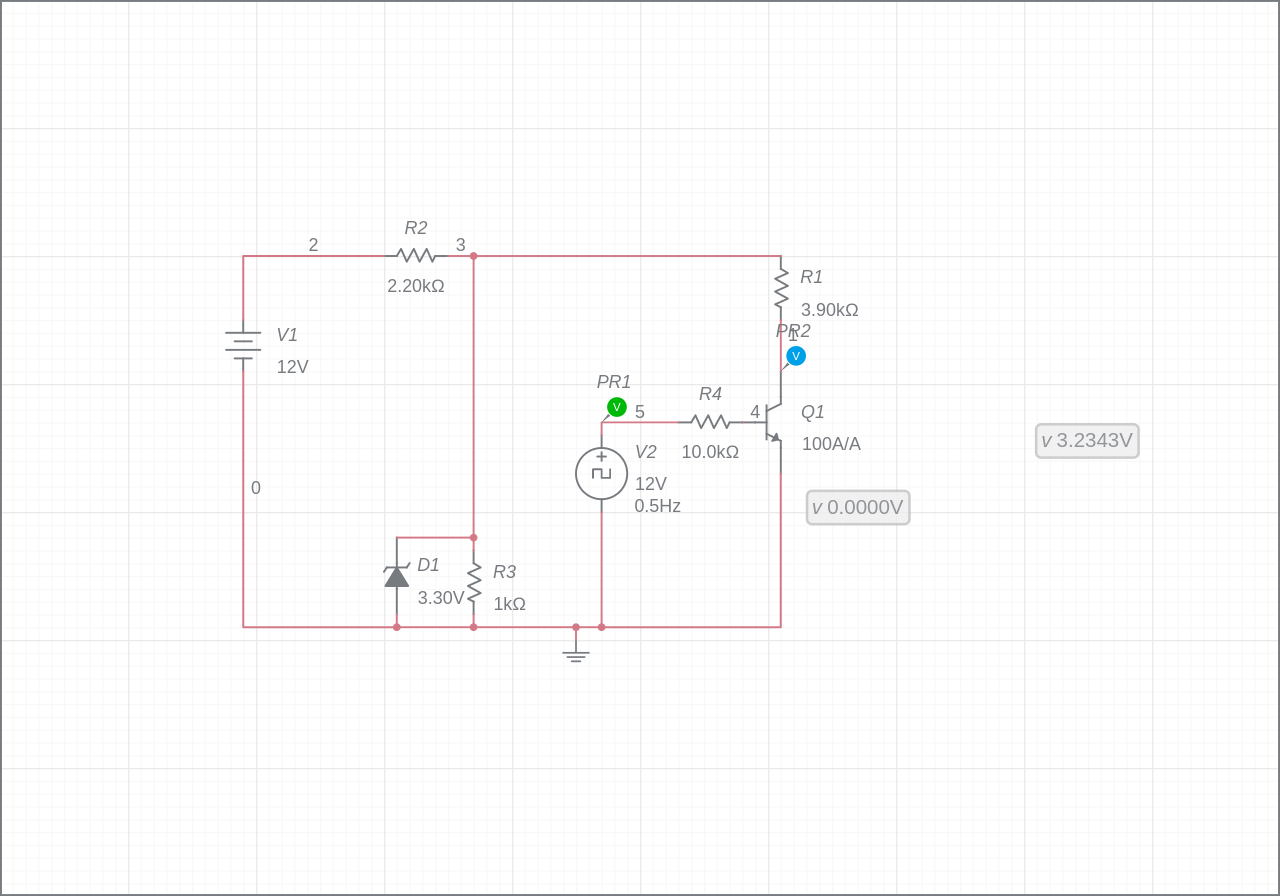
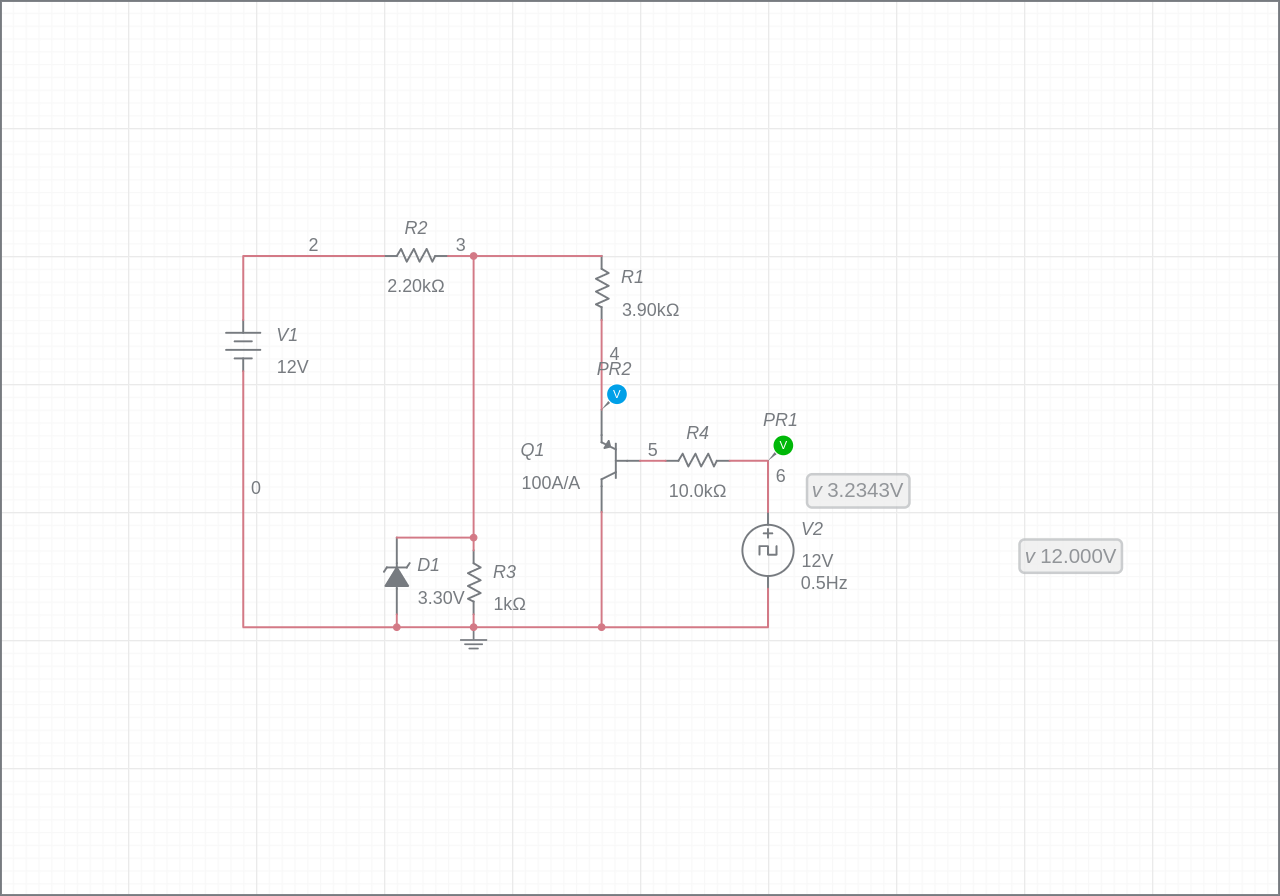
Added simulation of level converter

diff --git a/IoToB/Seatalk/Seatalk-to-ESP8266_schem.md b/IoToB/Seatalk/Seatalk-to-ESP8266_schem.md
@@ -6,14 +6,18 @@
 
 The Seatalk uses a different signal level codeing than the serial
 communication fo the normal Arduino/ESP8266. The common TTL serial
-signal level are 0V for logic 0 and +3.3 or 5V for logic 1. Seatalk
-uses +12 Volt for logic 0 and 0V for logic 1. See the the 
-[Thomas Knauf Seatalk page](http://www.thomasknauf.de/rap/seatalk1.htm).
+signal level are 0V for logic 0 and +3.3 or 5V for logic 1. 
+See the the [Thomas Knauf Seatalk page](http://www.thomasknauf.de/rap/seatalk1.htm).
 
-This require a level convertion from +12V/0V to 0V/3.3V and inverting
-in order to process the signal using thre ESP8222. The 0V signal need
-to be inverted to +3.3V while the +12V need to inverted to 0V. This is
-done by a simple inverter circuit using one transistor.
+This require a level convertion from +12V/3.3V to 0V/0V
+in order to process the signal using thre ESP8222. 
+
+The figure show how the level convertion is done using a single
+transistor, the simulation show the voltage levels and that the output
+is safe to output to the pins of the ESP6622. The Seatalk data source
+is replaced by a signal generator to simulate the Seatalk data.
+
+
 
 
 
